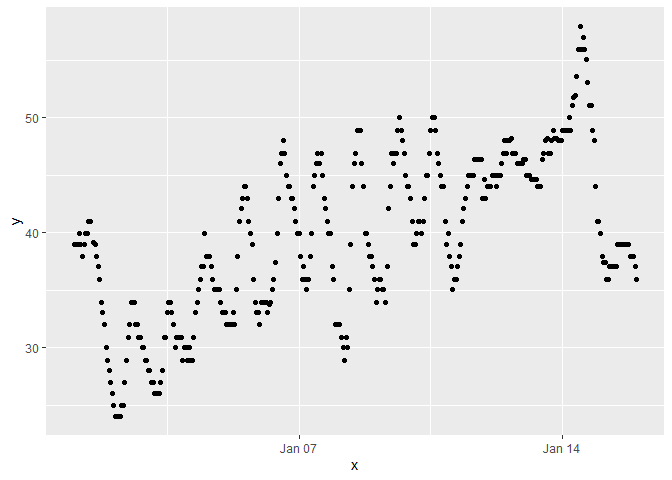
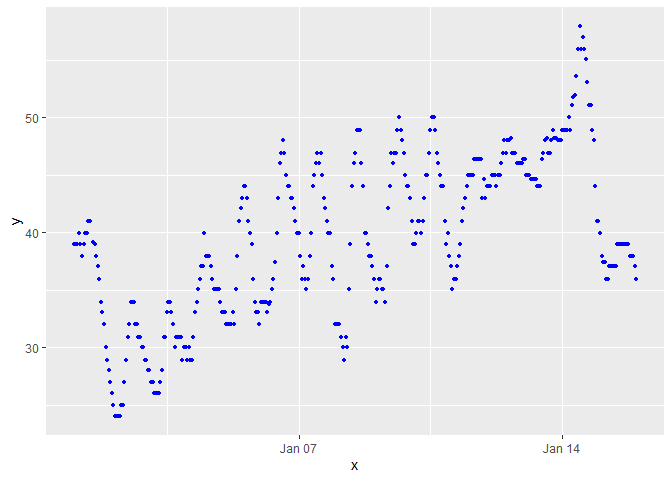
graph created using ggplot, color added

diff --git a/p8105_hw1_mgw2144.md b/p8105_hw1_mgw2144.md
@@ -72,12 +72,16 @@ variables
 early_january_weather_2=
   tibble(
     x = early_january_weather[["time_hour"]],
-    y = early_january_weather[["temp"]]
+    y = early_january_weather[["temp"]],
+    z = early_january_weather[["humid"]]
   )
 ```
 
 ``` r
-ggplot(early_january_weather_2, aes(x = x, y = y)) + geom_point()
+ggplot(early_january_weather_2, aes(x = x, y = y)) + 
+  geom_point(
+    mapping = aes(x = x, y = y), data = early_january_weather_2, colour = 'blue', size = 1
+  )
 ```
 
 ![](p8105_hw1_mgw2144_files/figure-gfm/unnamed-chunk-7-1.png)<!-- -->
